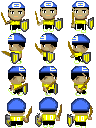
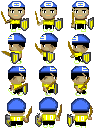
Pantalla de game over

Changed region(s): [[0.0312, 0.0, 0.3125, 0.2812], [0.7812, 0.2188, 0.9062, 0.2812], [0.0, 0.0938, 0.0312, 0.125]]

diff --git a/Sources/PANTALLA.cpp b/Sources/PANTALLA.cpp
@@ -57,7 +57,7 @@ void PANTALLA::gameLoop(HEROE &enlace, sf::RenderWindow &window) {
     bool enemigosCreadosPan2 = false;
     bool enemigosCreadosPan3 = false;
 
-    while (window.isOpen()) {
+    while (window.isOpen() && enlace.vivo) {
 
         while (const std::optional event = window.pollEvent())
         {
@@ -120,7 +120,9 @@ void PANTALLA::gameLoop(HEROE &enlace, sf::RenderWindow &window) {
 
 
         window.clear(sf::Color::Black);
-
+        if(!enlace.vivo){
+            break;
+        }
         window.draw(mapa);
 
 
@@ -195,7 +197,7 @@ void PANTALLA::gameLoop(HEROE &enlace, sf::RenderWindow &window) {
     }
 }
 
-void PANTALLA::menu(sf::RenderWindow &window) {
+void PANTALLA::menu(sf::RenderWindow &window, HEROE &enlace) {
 
     sf::Texture tex("IMG/menu.png");
     sf::Sprite image(tex);
@@ -221,7 +223,20 @@ void PANTALLA::menu(sf::RenderWindow &window) {
         {
             if (event->is<sf::Event::Closed>()) window.close();
         }
+        window.clear();
+        if(reset==false){
+            window.draw(image);
+            window.draw(botonJugar);
+            window.draw(botonCreditos);
+            window.draw(botonSalir);
+                    }
 
+        if(reset==true && !enlace.vivo){
+                reset = false;
+                musicamenu.stop();
+                enlace.resetear();
+                gameLoop(enlace, window);
+        }
         if (sf::Mouse::isButtonPressed(sf::Mouse::Button::Left))
         {
             sf::Vector2i mousePos = sf::Mouse::getPosition(window);
@@ -229,12 +244,7 @@ void PANTALLA::menu(sf::RenderWindow &window) {
             if(botonJugar.getGlobalBounds().contains({(float) mousePos.x ,  (float) mousePos.y}))
             {
                 musicamenu.stop();
-                HEROE *enlace = new HEROE();
-                enlace->setSprite("IMG/Enlace.png");
-                enlace->setNombre("Enlace");
-                enlace->setDialogo("hola");
-                gameLoop(*enlace, window);
-                delete enlace;
+                gameLoop(enlace, window);
             }
             if(botonCreditos.getGlobalBounds().contains({(float) mousePos.x ,  (float) mousePos.y}))
                 creditos(window);
@@ -242,12 +252,6 @@ void PANTALLA::menu(sf::RenderWindow &window) {
                 exit(1);
         }
 
-        window.clear();
-
-        window.draw(image);
-            window.draw(botonJugar);
-            window.draw(botonCreditos);
-            window.draw(botonSalir);
 
         window.display();
     }
@@ -459,8 +463,18 @@ void PANTALLA::pelea(NPC &rival, HEROE &enlace, sf::RenderWindow &window) {
             }
 
             enter = false;
+
+
         }
+
     }
+
+    if(enlace.getVida()<=0){
+            MusicaPelea.stop();
+            enlace.vivo = false;
+            gameOver(window, enlace);
+            return;
+        }
 
     cortinaInicio(window);
 
@@ -594,6 +608,36 @@ void PANTALLA::tutorial(sf::RenderWindow &window, HEROE &enlace, MAPA &mapa) {
     // al finalizar los textos mueve un poco al PJ
     // para no volver a empezar el bucle
     enlace.posicionar(250, 220);
+}
+
+void PANTALLA::gameOver(sf::RenderWindow &window, HEROE &enlace){
+
+    sf::Texture textura;
+    if(!textura.loadFromFile("IMG/gameover.png")){
+        return;
+    }
+    sf::Sprite gameoverpant(textura);
+
+    while(window.isOpen()){
+        while (const std::optional event = window.pollEvent())
+        {
+        if (event->is<sf::Event::Closed>()) window.close();
+        }
+
+        window.clear();
+        window.draw(gameoverpant);
+
+        if(sf::Keyboard::isKeyPressed(sf::Keyboard::Key::Space)){
+                reset=true;
+                break;
+        }
+        if(sf::Keyboard::isKeyPressed(sf::Keyboard::Key::Escape)){
+            menu(window, enlace);
+        }
+        window.display();
+    }
+
+
 }
 
 

diff --git a/Includes/PANTALLA.h b/Includes/PANTALLA.h
@@ -8,7 +8,7 @@ public:
     // pantallas
     void gameLoop(HEROE &enlace, sf::RenderWindow &window);
     void creditos(sf::RenderWindow &window);
-    void menu(sf::RenderWindow &window);
+    void menu(sf::RenderWindow &window, HEROE &);
     void pelea(NPC &rival, HEROE &enlace, sf::RenderWindow &window);
     void cortinaInicio(sf::RenderWindow &window);
     void cortinaFin(sf::RenderWindow &window);
@@ -16,7 +16,8 @@ public:
     unsigned int getAncho();
     unsigned int getLargo();
     ~PANTALLA();
-
+    void gameOver(sf::RenderWindow &window, HEROE &enlace);
+    bool reset = false;
 private:
     const unsigned int _ANCHO = 800;
     const unsigned int _LARGO = 576;

diff --git a/Sources/MANAGER.cpp b/Sources/MANAGER.cpp
@@ -15,10 +15,17 @@ void app() {
     sf::Image img("IMG/GoblinFrente2.png");
     window.setIcon(img);
 
-    pantalla->menu(window);
+    HEROE *enlace = new HEROE();
+    enlace->setSprite("IMG/Enlace.png");
+    enlace->setNombre("Enlace");
+    enlace->setDialogo("hola");
+
+    pantalla->menu(window,*enlace);
 
     window.close();
+
     delete pantalla;
+    delete enlace;
 }
 
 // lee un .txt y copia la lista de numeros que tenga dentro

diff --git a/Includes/HEROE.h b/Includes/HEROE.h
@@ -13,6 +13,8 @@ class HEROE : public NPC {
         void setMana(int);
         void setBatallando(bool);
         bool getBatallando();
+        bool vivo=true;
+        void resetear();
     private:
         bool _enBatalla;
         int _mana;

diff --git a/Sources/HEROE.cpp b/Sources/HEROE.cpp
@@ -67,4 +67,13 @@ int HEROE::getMana(){
     return _mana;
 }
 
+void HEROE::resetear(){
+   _vida = 100;
+    _fuerza = 10;
+    _exp = 0;
+    _lvl = 1;
+    _mana = 70;
+    _enBatalla = false;
+    vivo = true;
+}
 

diff --git a/Sources/NPC.cpp b/Sources/NPC.cpp
@@ -7,7 +7,7 @@ NPC::NPC() :
     _sprite(_textura)
 {
     _vida = 100;
-    _fuerza = 15;
+    _fuerza = 8;
 
     _sprite.setOrigin({
         _sprite.getTexture().getSize().x / 2.f,
